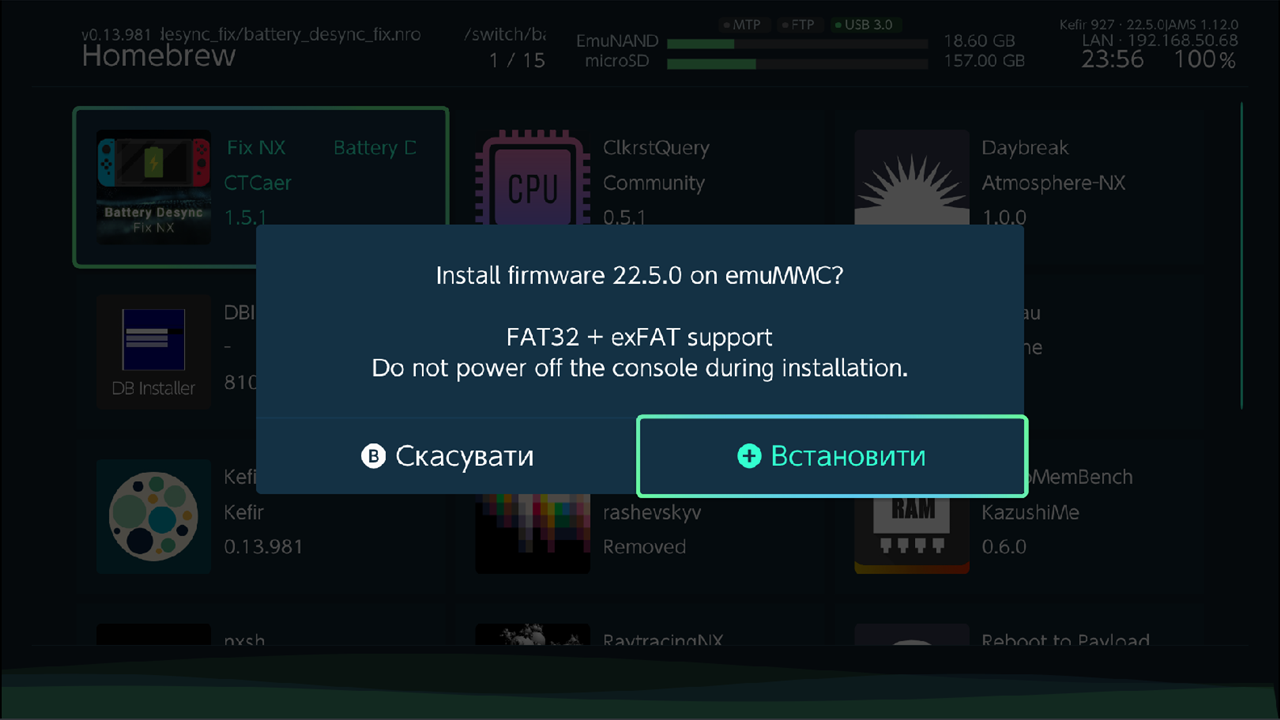
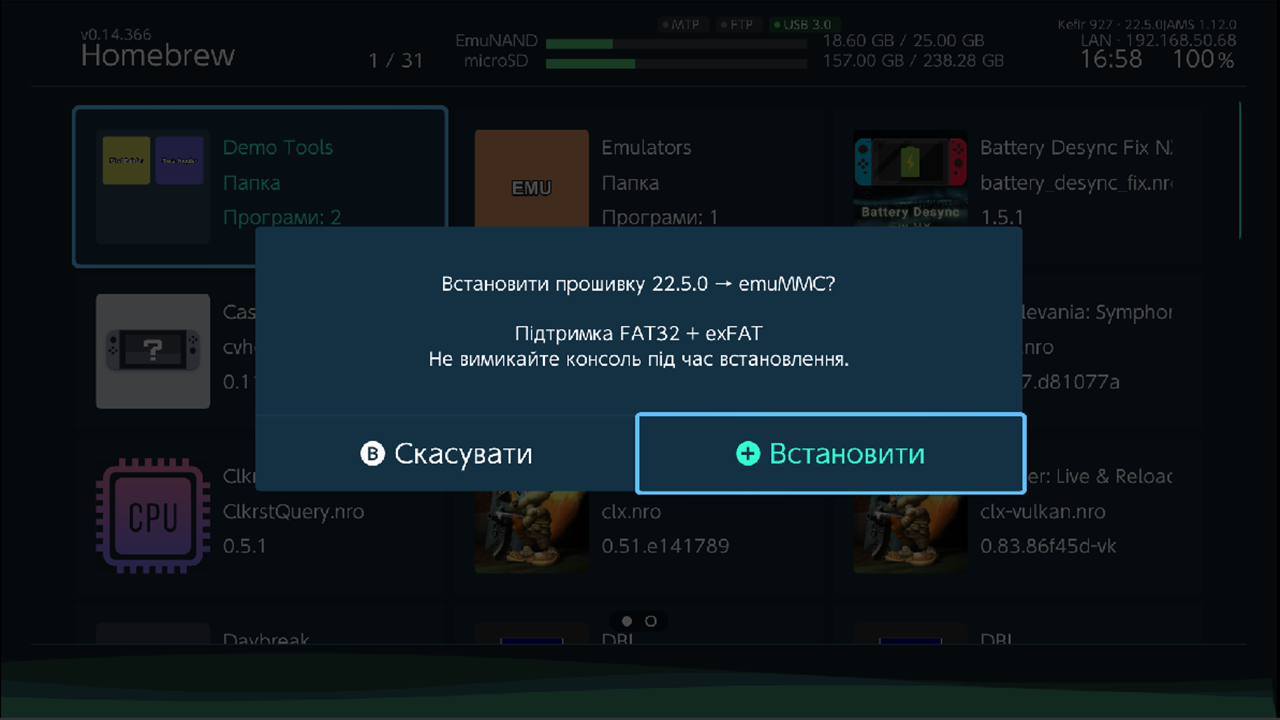
Short header title (long title stays for SEO); firmware confirm in Ukrainian, manual picker inside a firmware folder

diff --git a/_includes/masthead.html b/_includes/masthead.html
@@ -2,7 +2,7 @@
   <div class="masthead__inner-wrap">
     <div class="masthead__menu">
       <nav id="site-nav" class="greedy-nav">
-        <a class="site-title" href="{{ '/' | absolute_url }}">{{ site.title }}</a>
+        <a class="site-title" href="{{ '/' | absolute_url }}">{{ site.masthead_title | default: site.title }}</a>
         <ul class="visible-links">
           {%- assign navigation = site.data.navigation -%}
           {%- assign nav_list = navigation.main -%}
